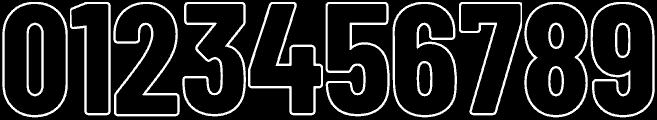
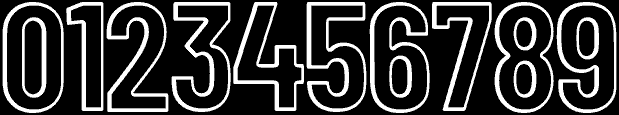
fix(always-on): draw the outline Gear inside the digit so the Venu 3 shows the hour (#3)
On the Venu 3's low-power AMOLED panel the 1.3 px outline Gear was too thin to read, so the
hour looked missing in the always-on view.

Widening the ring to 2 px outside the digit made Connect IQ clip it at each glyph's advance,
which cut 2 to 3 px off the sides of 7, 4 and other digits. The generator now draws the ring
inside the digit's edge, still 2 px wide, so it can't pass the advance and nothing is clipped
at any of the five AMOLED sizes. The dead clip_to_advance step is removed and the gear_outline
fonts are regenerated.

The Gear's ring now lights about 0.7 points more of the always-on screen, estimated from the
glyph pixels (7.8% and 7.1% recorded before, so about 8.5% and 7.9%); that is still under the
10% limit but has not been re-measured in the simulator.

Changed region(s): [[0.0, 0.0, 1.0, 0.9913]]

diff --git a/tools/gen_bitmap_font.py b/tools/gen_bitmap_font.py
@@ -35,7 +35,7 @@ import math
 import os
 from collections import namedtuple
 
-from PIL import Image, ImageDraw, ImageFilter, ImageFont
+from PIL import Image, ImageChops, ImageDraw, ImageFilter, ImageFont
 
 ROOT = os.path.dirname(os.path.dirname(os.path.abspath(__file__)))
 FONT_PATH = os.path.join(ROOT, "assets", "fonts", "BarlowCondensed-Bold.ttf")
@@ -71,9 +71,9 @@ FONTS = [
 ]
 
 # The Gear glow's blur, in px on the 260 px screen (scaled like the font sizes), and the outline's width.
-# These match the prototype's Gear glow and its always-on Gear.
+# The outline is a ring inside the digit's edge, and 2 px wide it stays visible on Venu 3's low-power AMOLED panel.
 GLOW_SIGMA_V1 = 7.0
-OUTLINE_WIDTH_V1 = 1.3
+OUTLINE_WIDTH_V1 = 2.0
 
 # An anti-aliased font on Connect IQ has only four coverage levels: none, 1/3, 2/3 and full. The
 # resource compiler reads them off a grayscale sheet, cutting at gray 56, 136 and 216 (measured in
@@ -117,8 +117,9 @@ def glyph_bitmap(font, ch, style=PLAIN, px=V1_PX, antialias=False):
     to a common baseline -- no font metrics math needed beyond the ascent/descent used for
     the sheet-wide lineHeight/base below.
 
-    A GLOW or OUTLINE glyph reaches past the plain glyph's box, so its canvas has a margin around the
-    origin and its offsets are measured from the origin all the same. The offsets can come out negative.
+    A GLOW glyph reaches past the plain glyph's box, and an OUTLINE glyph is drawn with a stroke wider than
+    its ring, so their canvases have a margin around the origin and their offsets are measured from the
+    origin all the same. A GLOW glyph's offsets can come out negative.
     A GLOW glyph's yoffset is measured from the top of the taller line box that line_extension gives it.
     """
     ascent, descent = font.getmetrics()
@@ -137,9 +138,15 @@ def glyph_bitmap(font, ch, style=PLAIN, px=V1_PX, antialias=False):
             draw.text(origin, ch, font=font, fill=255, anchor="la")
             alpha = glow_levels(mask.filter(ImageFilter.GaussianBlur(scaled_measure(GLOW_SIGMA_V1, px))))
         else:
-            # The ring just outside the glyph: stroke it wider, then knock the glyph itself out.
-            draw.text(origin, ch, font=font, fill=0, stroke_width=scaled_measure(OUTLINE_WIDTH_V1, px), stroke_fill=255, anchor="la")
-            alpha = mask
+            # The ring just inside the glyph's edge. ImageDraw.text can only stroke outwards, so ask the font
+            # for the stroker's own band, which is centered on the edge (checked with Pillow 11.3), and keep
+            # the part of it that lies on the glyph. The ring stays inside the digit, so Connect IQ has
+            # nothing to clip at its advance.
+            band, (dx, dy) = font.getmask2(ch, "L", stroke_width=scaled_measure(OUTLINE_WIDTH_V1, px), stroke_filled=False, anchor="la")
+            mask.paste(Image.Image()._new(band), (origin[0] + dx, origin[1] + dy))
+            glyph = Image.new("L", mask.size, 0)
+            ImageDraw.Draw(glyph).text(origin, ch, font=font, fill=255, anchor="la")
+            alpha = ImageChops.darker(mask, glyph)
     if antialias and style != GLOW:
         alpha = alpha.point([LEVEL_GRAYS[round(3 * v / 255)] for v in range(256)])
     bbox = alpha.getbbox()
@@ -175,17 +182,6 @@ def widen_for_glow(glyphs):
     for g in glyphs:
         g["xoffset"] += reach
         g["xadvance"] += 2 * reach
-
-
-def clip_to_advance(glyphs):
-    """Cut a glyph's bitmap to its advance, which is all Connect IQ would draw of it in any case."""
-    for g in glyphs:
-        bmp = g["bitmap"]
-        left = max(-g["xoffset"], 0)
-        right = min(bmp.width, g["xadvance"] - g["xoffset"])
-        if left > 0 or right < bmp.width:
-            g["bitmap"] = bmp.crop((left, 0, right, bmp.height))
-            g["xoffset"] += left
 
 
 def style_margin(style, px):
@@ -249,8 +245,6 @@ def build_font(directory, name, size, chars, style=PLAIN, px=V1_PX, antialias=Fa
 
     if style == GLOW:
         widen_for_glow(glyphs)
-    elif style == OUTLINE:
-        clip_to_advance(glyphs)
 
     # Pack left to right in a single row.
     sheet_w = sum(g["bitmap"].width + PAD for g in glyphs) + PAD

diff --git a/docs/tickets/13-amoled-watches.md b/docs/tickets/13-amoled-watches.md
@@ -83,7 +83,7 @@ Started on 2026-09-24.
 - **Four coverage levels.** An anti-aliased Connect IQ font has only four levels (none, ⅓, ⅔, full), cutting at gray 56, 136 and 216 (measured with a ramp font in the simulator). `tools/gen_bitmap_font.py` writes the AMOLED sets with the levels already picked.
 - **The Gear glow is three bands, in 22% white.** A 45% blur baked into a font falls to level 1 or 0 almost everywhere outside the digits, so nothing shows. Instead the blur is cut into three brightness bands, and the face draws it in 22% white (`Constants.COLOR_GEAR_GLOW`), which is what a 45% blurred digit shows at the edge of its strokes. The spec says so now.
 - **The Gear glow is drawn one digit at a time.** Connect IQ draws a glyph only inside its advance, which cut the halo off at the ends of the string. The glow font's advances are wider than the Gear's by the halo's reach on both sides, and `Gear.drawGlow` places each digit's glow from the Gear font's advances.
-- **The outline Gear is a ring just outside the digit**, 1.3 px wide at 260 px, cut to the glyph's advance (at most 1 px on `1`, `4` and `7`).
+- **The outline Gear is a ring just inside the digit's edge**, 2 px wide at 260 px. It began as a 1.3 px ring outside the digit, cut to the glyph's advance (at most 1 px on `1`, `4` and `7`), but on the Venu 3's low-power panel that was too thin to read, and at 2 px the cut took 2 to 3 px off the sides of `7`, `4` and others. Inside the edge the ring can't reach past the advance, so nothing is cut. The 2 px ring lights about 0.7 points more of the screen than the old one (estimated from the glyph pixels, not measured in the simulator), so the lit shares recorded below are now about that much higher.
 - **`setColor` after `setStroke` wins, in the simulator.** The Glow sets a translucent stroke, and the face is drawn afterwards with plain `setColor` calls. The SDK says `setStroke` "takes precedence over `setColor()`", so this was tested: on `fr965`, a line drawn after a translucent `setStroke` and then a `setColor` comes out in the `setColor` color, and a `setStroke` after a `setColor` wins. The Glow therefore doesn't reset the stroke. Not confirmed on a real watch, where a tinted, translucent face (ticks, arcs, lines) would mean the opposite.
 - **Sleeping on MIP is unchanged.** `RevBar.isVisible` keeps the Rev Bar off on AMOLED whatever the setting says, and `AlwaysOn.isActive` is true only on AMOLED while asleep.
 - **AM/PM used to overlap the Date in 12-hour mode, and is fixed.** `Gear.draw` placed AM/PM from `dc.getFontHeight(gearFont)`, which is the font's line height (107 px on `fenix7pro`), not the digits' cap height that the prototype uses, so on every watch it landed on the Center Slot's head text (the jagged "THU" in the simulator screenshots above was AM/PM printed over it: the simulator's clock was set to 12-hour). It predates this ticket, and the always-on view would have inherited it. AM/PM now sits at a fixed offset from the Gear's center, `Gear.Layout.ampmOffset`, 46 px at 260 px, which is halfway between the bottom of the digits and the Center Slot's head. Checked on `fenix7pro`, `fenix7s`, `fr965` awake and `fr965` always-on, with the clock forced to 10 PM. The 24-hour face on `fenix7pro` is still pixel-identical to the one before this ticket, and only the 12-hour AM/PM position on MIP watches changes.
